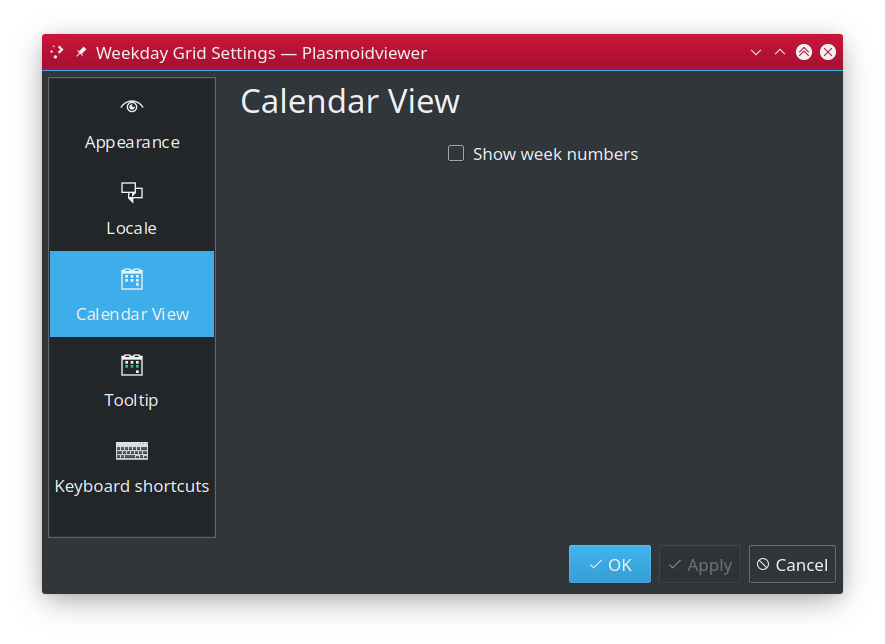
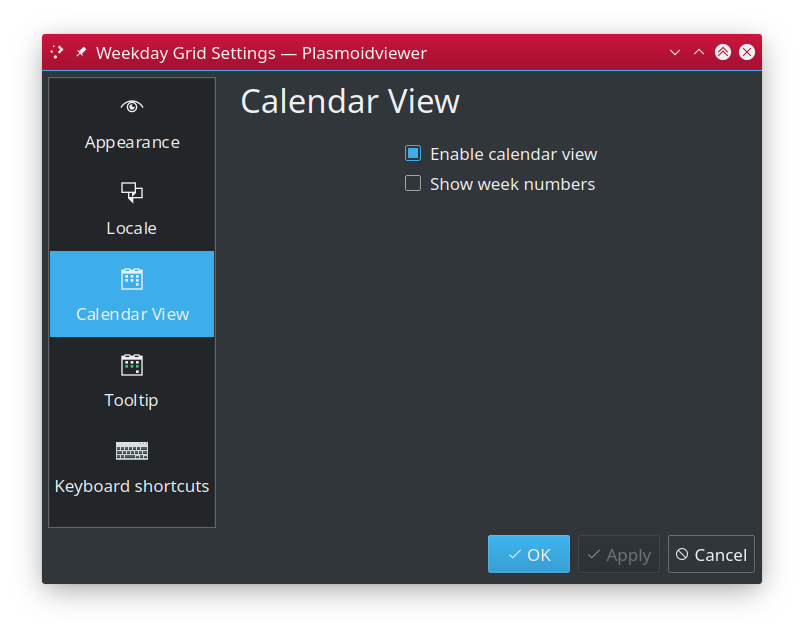
Updated docs

Changed region(s): [[0.0311, 0.0599, 0.9639, 0.929], [0.4975, 0.2098, 0.7463, 0.2997], [0.0933, 0.2098, 0.2488, 0.2397]]

diff --git a/README.md b/README.md
@@ -88,7 +88,8 @@ theme as your starting point.
 
 ![Locale](img/config-calendar.png)
 
- * **Show week numbers**: specifies if popup calendar view should also show week numbers
+ * **Enabled calendar view**: uncheck to disable calendar view popup from showing up on widget click.
+ * **Show week numbers**: specifies if popup calendar view should also show week numbers.
 
 
 ### Tooltip ###
